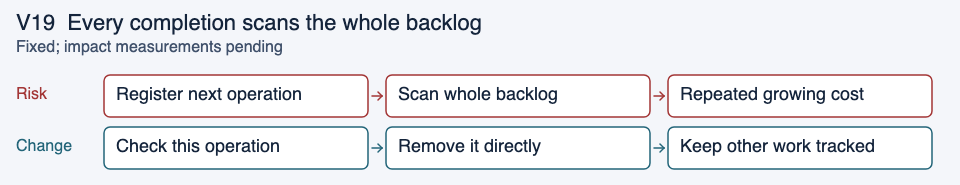
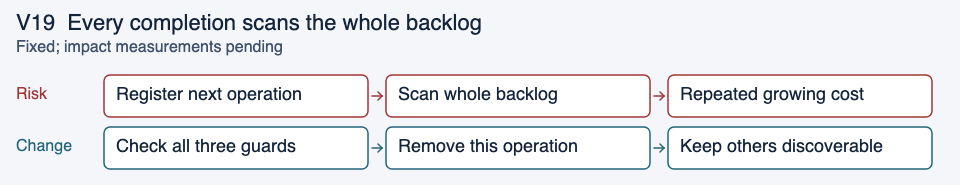
docs(feed-client): clarify shutdown outcomes and ordering guarantees

Changed region(s): [[0.7812, 0.7568, 0.9375, 0.8378], [0.1562, 0.7568, 0.3125, 0.8378], [0.4688, 0.7568, 0.625, 0.8378]]

diff --git a/vespa-feed-client/doc/shutdown.md b/vespa-feed-client/doc/shutdown.md
@@ -20,6 +20,17 @@ A request can belong to the client before it has a strategy slot. It can also re
 | Identify known progress threads | Prevent a thread from waiting for shutdown that needs that thread | This does not detect arbitrary user dependency cycles |
 | Attempt remaining cleanup and retain failures | One transport failure must not skip executor shutdown | FAILED records an unsuccessful cleanup, not complete resource release |
 
+## What the latest checks mean for this PR
+
+| Finding | Implication for callers and reviewers |
+| --- | --- |
+| Startup can fail while an earlier send is still constructing | FAILED may retain admitted work and resources. It reports an error; it does not report a drained client. |
+| An executor can terminate after a wait has timed out | Keep the original failed outcome for concurrent and late callers. Later termination does not turn that outcome into success. |
+| Cancellation can complete a public future before mapping resolves | Remove an operation only after registration, internal resolution and public completion. Keep eligible retained entries discoverable by the publication scan. |
+| The admission and mapping waits protect different stages | The admission wait orders strategy drainage after construction. The operation wait orders graceful destruction after mapping. Removing the first wait alone does not establish premature destruction if the later wait still blocks. |
+
+These checks support the current changes and clarify their limits; they did not identify another implementation change within these four fixes. The PR remains a draft for the open handoff, resource-release, integration and impact checks below.
+
 ## Reading the examples and tests
 
 Snippets are shortened Java excerpts or API examples. Comments omit surrounding code; they are not standalone programs. Each case links to the test source and names the relevant methods. Latches and controlled dependencies force the important ordering. Timeouts bound waits and detect hangs; timing-sensitive checks still need reruns on the maintainer’s environment.
@@ -31,6 +42,8 @@ The generated lifecycle test uses 64 fixed seeds with 100 commands each and prin
 Four new regression cases first failed against the old behavior: worker creation failure, worker start failure, false success after executor timeout, and backlog traversal. After repair they passed. Separate mutations removing the admission and mapping waits were both caught by the strengthened ordering tests. The final clean build restored all production guards and passed with zero failures or skips.
 
 ## Failure-mode table
+
+Additional controlled JDK runs recorded 52 observations: thirteen scenarios on JDK 21 and JDK 26, each in mixed and interpreted mode. Three scenarios distinguish timeout with a held worker, interruption with the flag restored, and successful termination. All observations matched their expected endpoints. These runs support the JDK wait contract; they do not replace the 59 Java component tests or real transport validation. Run identifiers, parameters, runtime versions, logs and rendered plots are retained in the separate evaluated notebooks.
 
 | Case | Failure mode | Status |
 | --- | --- | --- |
@@ -364,7 +377,7 @@ Evidence: [ShutdownHandleTest](../../vespa-feed-client-api/src/test/java/ai/vesp
 
 Admission closed before thread creation and start. A failure there left no worker to publish an outcome, so later callers could wait forever.
 
-Catch creation/start failure and publish FAILED with the original cause. Later callers observe that same failure. No blocking cleanup runs inside closeAsync as a fallback; FAILED explicitly permits resources to remain unreleased.
+Catch creation/start failure and publish FAILED with the original cause. Later callers observe that same failure. No blocking cleanup runs inside closeAsync as a fallback; FAILED explicitly permits resources to remain unreleased. An earlier admitted send may still be constructing when startup fails; a failed snapshot may therefore retain admission and operation counts.
 
 ```java
 try {
@@ -375,7 +388,7 @@ try {
 }
 ```
 
-![Worker startup failure strands shutdown: Close admission → Worker cannot start → No terminal outcome; Retain startup failure → Publish FAILED → Late waits see failure](shutdown-diagrams/images/V17.png)
+![Worker startup failure strands shutdown: Close admission → Worker cannot start → No terminal outcome; Retain startup failure → FAILED may retain work → Late waits see failure](shutdown-diagrams/images/V17.png)
 
 Evidence: [HttpFeedClientShutdownTest](../../vespa-feed-client/src/test/java/ai/vespa/feed/client/impl/HttpFeedClientShutdownTest.java): `workerStartupFailureRemainsObservable`, with creation and start failure parameters; also checks no inline destruction.
 
@@ -385,7 +398,7 @@ Evidence: [HttpFeedClientShutdownTest](../../vespa-feed-client/src/test/java/ai/
 
 A held result callback can keep its executor alive after the public future is complete. Previously, an executor timeout only logged a warning and shutdown could report success.
 
-Both result-processing and reset-accounting executor waits now retain timeout or interruption as cleanup failure. Preserve the interrupt flag and any earlier error. A real held result callback exercises the timeout; mock-executor cases cover interruption, error aggregation and successful termination.
+Both result-processing and reset-accounting executor waits now retain timeout or interruption as cleanup failure. Preserve the interrupt flag and any earlier error. A real held result callback exercises the timeout; mock-executor cases cover interruption, error aggregation and successful termination. If the worker exits later, callers still observe the original failed shutdown outcome.
 
 ```java
 if (!executor.awaitTermination(timeout.toNanos(), TimeUnit.NANOSECONDS))
@@ -393,7 +406,7 @@ if (!executor.awaitTermination(timeout.toNanos(), TimeUnit.NANOSECONDS))
             "Timed out waiting for " + name + " executor termination"));
 ```
 
-![Executor timeout is mistaken for success: Callback held → Executor wait times out → Success reported; Retain timeout failure → Publish FAILED → No release claim](shutdown-diagrams/images/V18.png)
+![Executor timeout is mistaken for success: Callback held → Executor wait times out → Success reported; Retain timeout failure → Worker may exit later → Keep failed outcome](shutdown-diagrams/images/V18.png)
 
 Evidence: [HttpFeedClientShutdownTest](../../vespa-feed-client/src/test/java/ai/vespa/feed/client/impl/HttpFeedClientShutdownTest.java): `executorTimeoutCannotReportSuccessfulTermination`; [HttpRequestStrategyTest](../../vespa-feed-client/src/test/java/ai/vespa/feed/client/impl/HttpRequestStrategyTest.java): `executorTimeoutPreservesEarlierCleanupFailure`, `executorInterruptionIsRetainedAndInterruptFlagRestored`, `completedExecutorDoesNotCreateCleanupFailure`.
 
@@ -403,7 +416,7 @@ Evidence: [HttpFeedClientShutdownTest](../../vespa-feed-client/src/test/java/ai/
 
 Registration and publication each scanned every outstanding operation under one monitor. Building a backlog therefore added quadratic traversal work.
 
-Remove the affected operation directly. Snapshot and shutdown waits inspect only publication calls that may still be inside inline callbacks. A counting test checks that registration and publication never iterate the outstanding set; this is not a throughput benchmark.
+Remove the affected operation directly. Snapshot and shutdown waits inspect only publication calls that may still be inside inline callbacks. A counting test checks that registration and publication never iterate the outstanding set; this is not a throughput benchmark. The three removal conditions must remain together. A completed or cancelled public future alone does not establish that internal mapping finished; eligible retained entries must remain discoverable in the publication set.
 
 ```java
 private boolean removeCompleted(Operation operation) {
@@ -413,7 +426,7 @@ private boolean removeCompleted(Operation operation) {
 }
 ```
 
-![Every completion scans the whole backlog: Register next operation → Scan whole backlog → Repeated growing cost; Check this operation → Remove it directly → Keep other work tracked](shutdown-diagrams/images/V19.png)
+![Every completion scans the whole backlog: Register next operation → Scan whole backlog → Repeated growing cost; Check all three guards → Remove this operation → Keep others discoverable](shutdown-diagrams/images/V19.png)
 
 Evidence: [ShutdownLifecycleTest](../../vespa-feed-client/src/test/java/ai/vespa/feed/client/impl/ShutdownLifecycleTest.java): `registrationAndPublicationDoNotScanTheOutstandingBacklog` uses 256 outstanding operations and counts traversal without wall-clock thresholds.
 
@@ -423,7 +436,7 @@ Evidence: [ShutdownLifecycleTest](../../vespa-feed-client/src/test/java/ai/vespa
 
 The close caller could enter a wait before the separate cleanup worker ran. Checking destruction at that moment could let a broken implementation pass.
 
-Capture the actual cleanup worker and observe its lifecycle wait while the operation is held. The tests now detect removing the admission wait and removing the mapping wait in separate mutation runs. Both mutations were restored before the final build.
+Capture the actual cleanup worker and observe its lifecycle wait while the operation is held. The tests now detect removing the admission wait and removing the mapping wait in separate mutation runs. Both mutations were restored before the final build. The admission mutation establishes an ordering violation before strategy drainage; the later operation wait may still prevent destruction. The mapping mutation checks the distinct wait before graceful destruction.
 
 ```java
 client.closeAsync(true);
@@ -431,7 +444,7 @@ awaitLifecycleWait(cleanupWorker.get(), "awaitAdmissions");
 assertFalse(strategy.destroyed.get());
 ```
 
-![A test checks before cleanup has run: Close caller waits → Cleanup not scheduled yet → Test can pass too early; Observe cleanup worker → Confirm lifecycle wait → Then check destruction](shutdown-diagrams/images/V20.png)
+![A test checks before cleanup has run: Close caller waits → Cleanup not scheduled yet → Test can pass too early; Observe cleanup worker → Check the intended stage → Then check destruction](shutdown-diagrams/images/V20.png)
 
 Evidence: [HttpFeedClientShutdownTest](../../vespa-feed-client/src/test/java/ai/vespa/feed/client/impl/HttpFeedClientShutdownTest.java): `gracefulCloseWaitsForAdmittedConstruction`, `responseMappingRemainsOwnedUntilPublicResultIsPublished`; both removed-wait mutations were detected.
 
